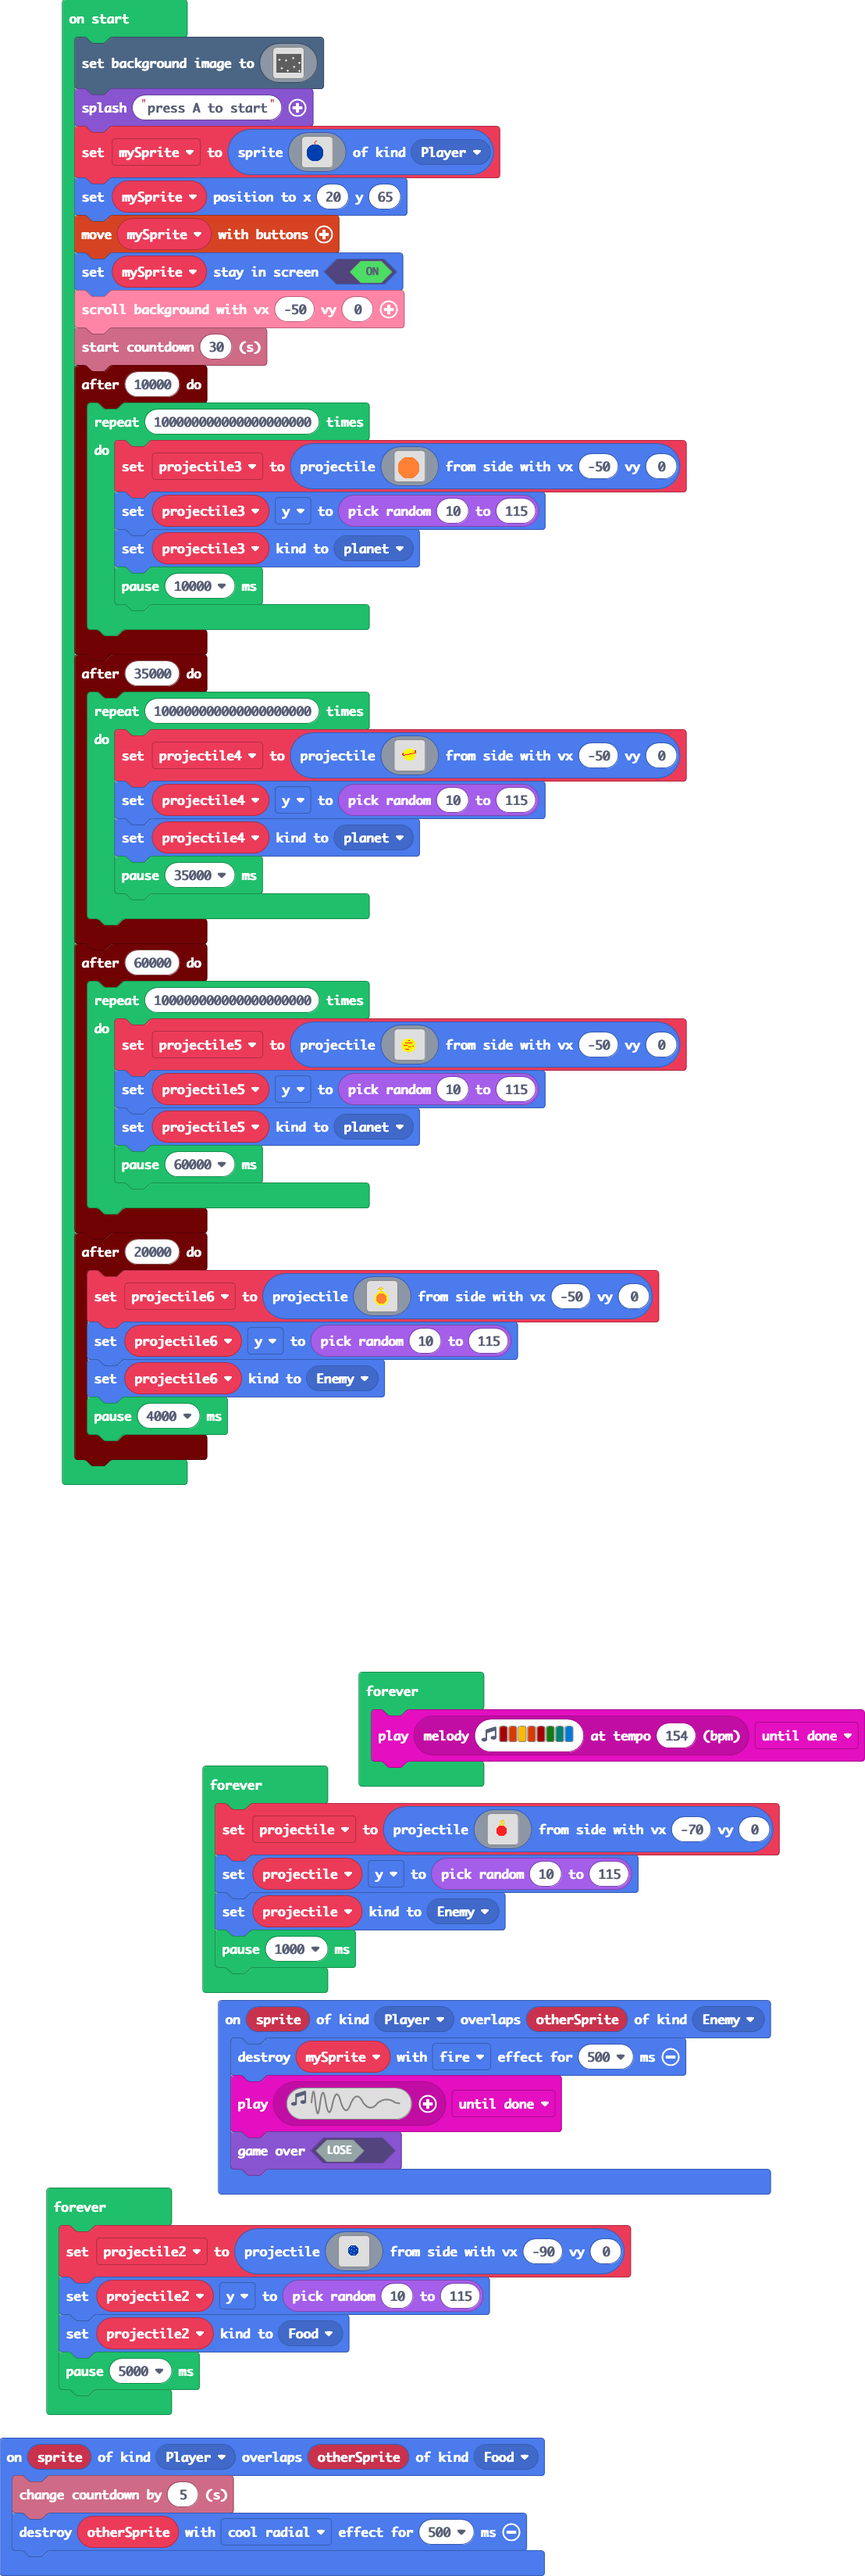
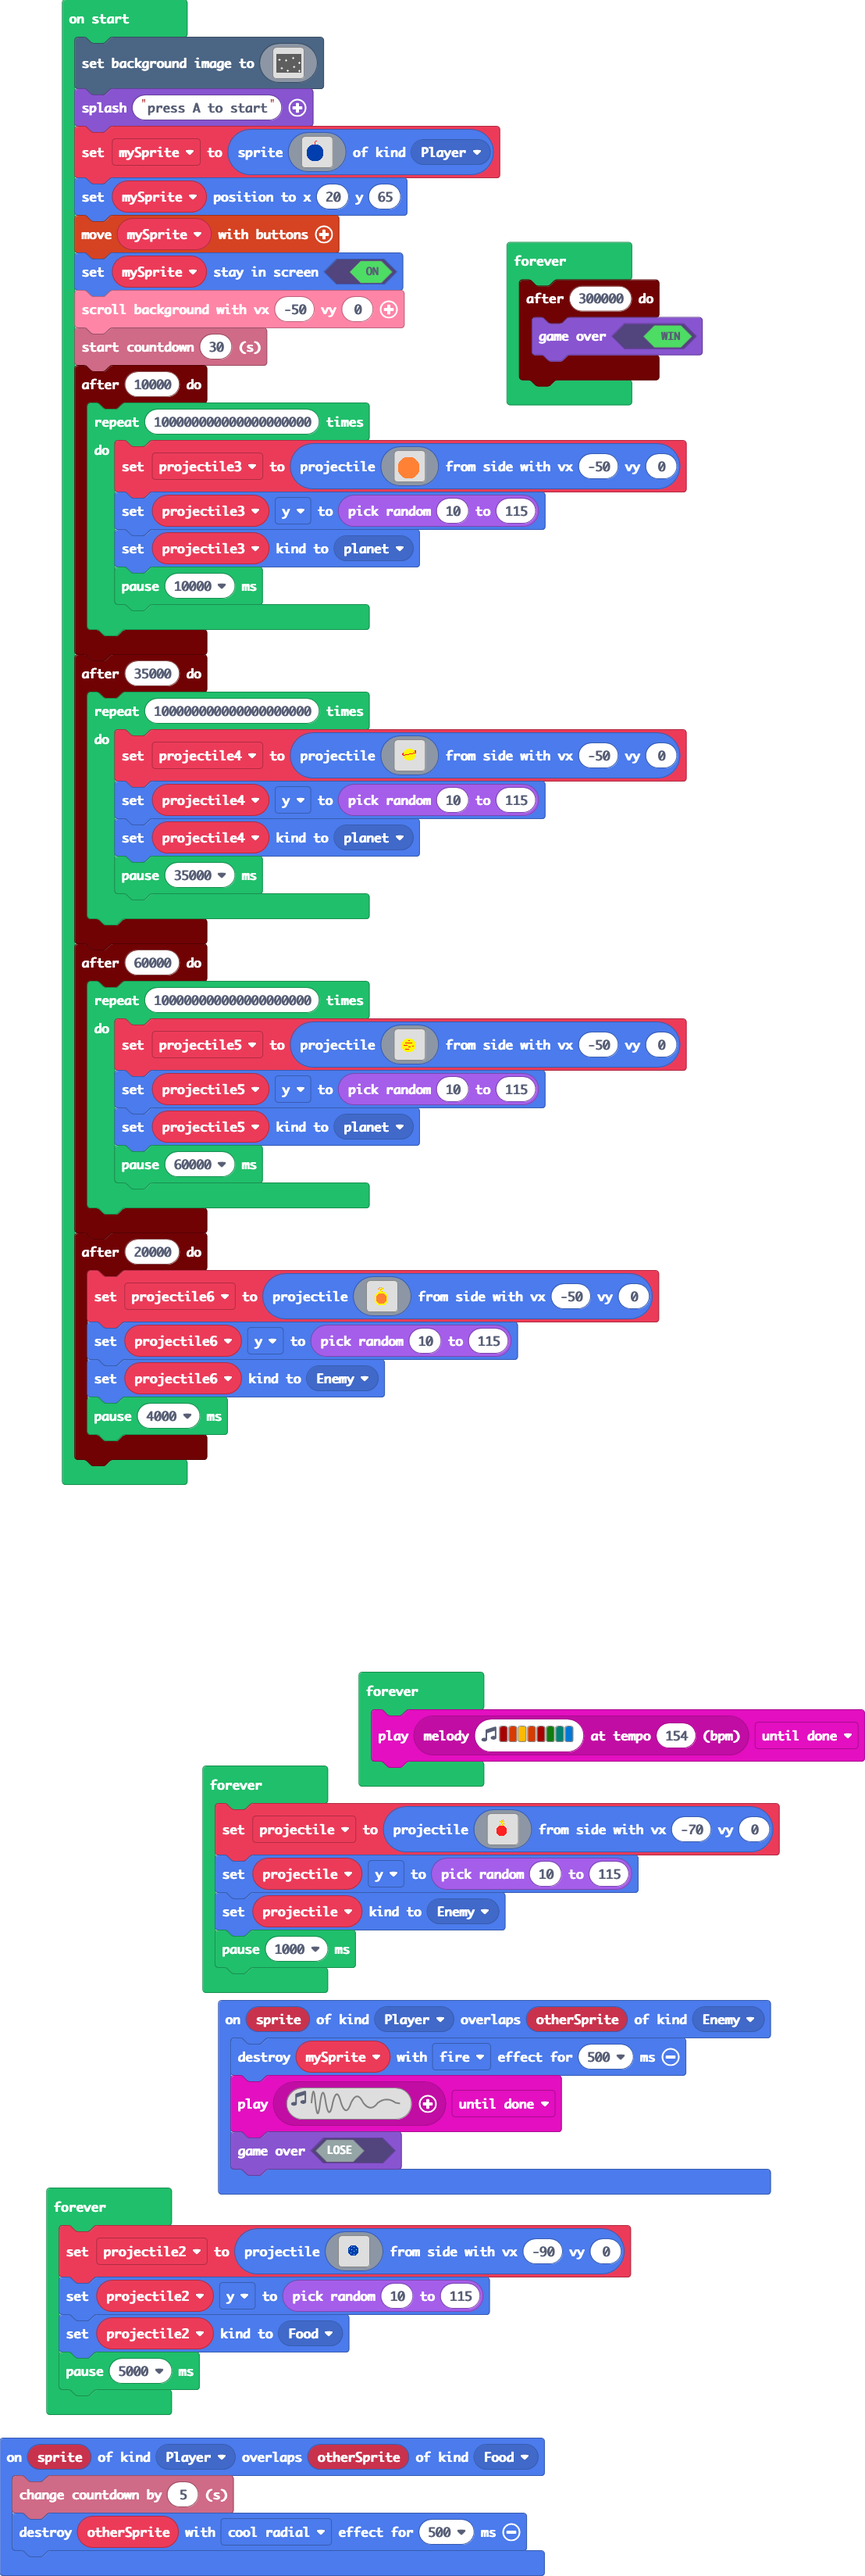
Update main.blocks, main.ts

Changed region(s): [[0.583, 0.0938, 0.8285, 0.1562]]

diff --git a/main.ts b/main.ts
@@ -342,6 +342,11 @@ timer.after(20000, function () {
     pause(4000)
 })
 forever(function () {
+    timer.after(300000, function () {
+        game.gameOver(true)
+    })
+})
+forever(function () {
     music.play(music.stringPlayable("C5 B A B C5 G F E ", 154), music.PlaybackMode.UntilDone)
 })
 forever(function () {
